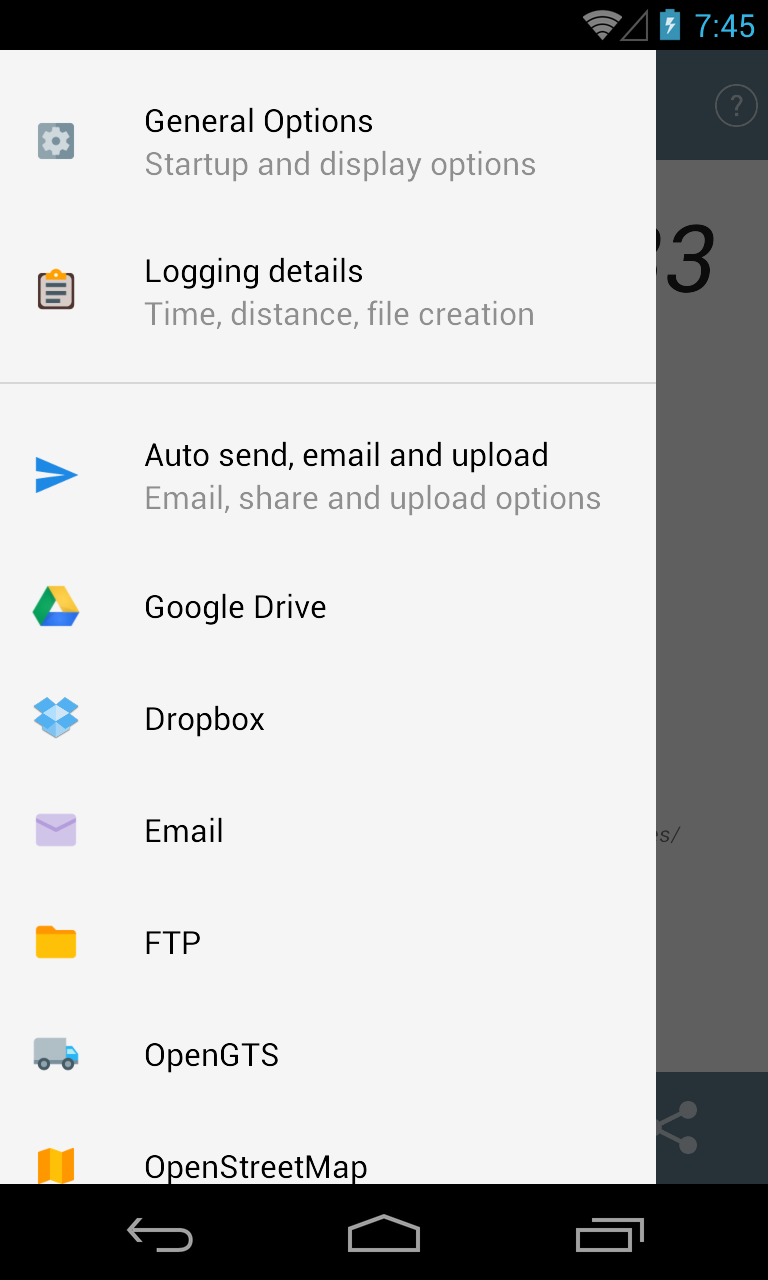
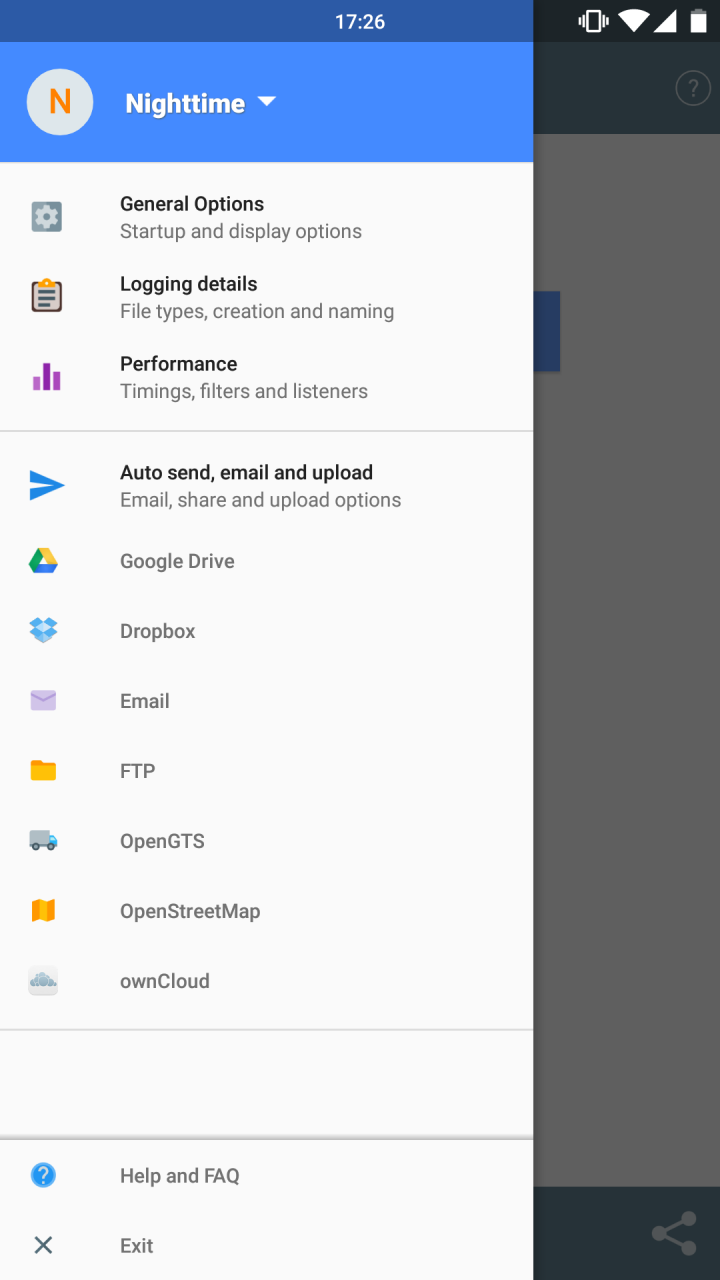
Added profiles screenshot

diff --git a/index.html b/index.html
@@ -51,10 +51,7 @@
         <a href="#faq" class="button">FAQ</a>
         <a href="#screenshots" class="button">Screenshots</a>
 
-        <a class="pull-right" href="https://play.google.com/store/apps/details?id=com.mendhak.gpslogger">
-                <img alt="Android app on Google Play"
-                     src="https://developer.android.com/images/brand/en_app_rgb_wo_45.png"/>
-            </a>
+        <a class="pull-right" href="https://play.google.com/store/apps/details?id=com.mendhak.gpslogger"><img height="50px" alt="Get it on Google Play" src="https://play.google.com/intl/en_us/badges/images/apps/en-play-badge-border.png" /></a>
             <a class="pull-right" href="https://github.com/mendhak/gpslogger"><img src="images/social/GitHub-Mark-64px.png" height="40px"/><img
                     src="images/social/GitHub_Logo.png" height="40px"/></a>
 
@@ -127,6 +124,7 @@
                 <li>
                     Many menu items
                 </li>
+                <li><em>Profiles</em> - Group preferences under profile names, such as default, nighttime, trekking, etc. </li>
                 <li><em>General options</em> - Startup, imperial, debug file and version info</li>
                 <li><em>Logging details</em> - File formats, folder, new file creation, frequency, accuracy</li>
                 <li><em>Auto send, email and upload</em>  - Settings for various destinations such as Google Docs, FTP, Dropbox</li>
